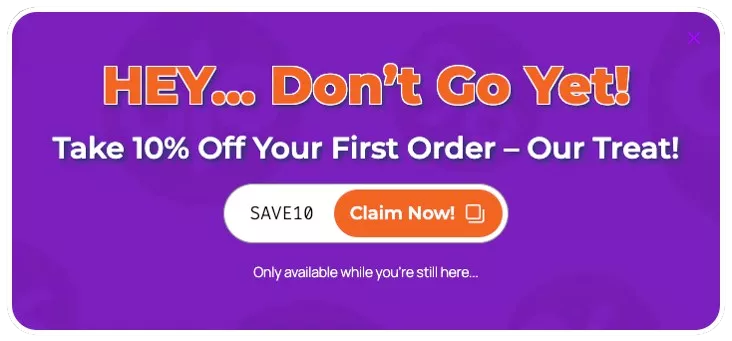
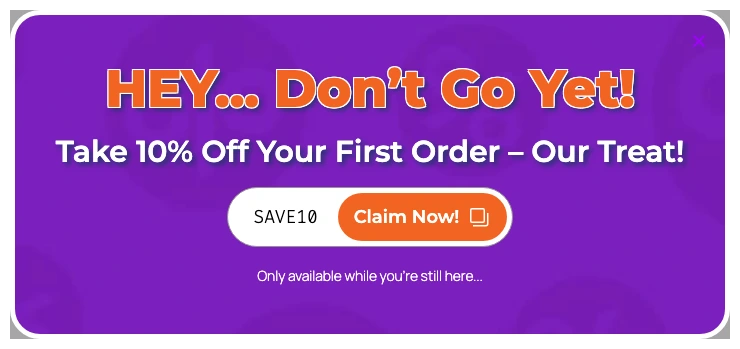
Add bundled template preview screenshots

diff --git a/includes/Admin/Templates/bars/digital_download_signup.php b/includes/Admin/Templates/bars/digital_download_signup.php
@@ -13,7 +13,7 @@ return array(
 		'category' => 'lead-capture',
 		'tags' => array( 'email', 'download' ),
 		'availability' => 'included',
-		'preview' => FOOCONVERT_ASSETS_URL . 'media/templates/preview/preview-bar-digitial-download-signup.webp',
+		'preview' => FOOCONVERT_ASSETS_URL . 'media/templates/preview/preview-bar-digital-download-signup.webp',
 	),
 	'attributes' => array(
 		'viewState' => 'open',

diff --git a/includes/Admin/Templates/bars/newsletter_subscribe.php b/includes/Admin/Templates/bars/newsletter_subscribe.php
@@ -13,7 +13,7 @@ return array(
 		'category' => 'lead-capture',
 		'tags' => array( 'newsletter', 'email' ),
 		'availability' => 'included',
-		'preview' => FOOCONVERT_ASSETS_URL . 'media/templates/fullsize/template__newsletter_subscribe.png',
+		'preview' => FOOCONVERT_ASSETS_URL . 'media/templates/preview/preview-bar-newsletter-subscribe.webp',
 	),
 	'attributes' => array(
 		'viewState' => 'open',

diff --git a/includes/Admin/Templates/bars/smart_exit_offer.php b/includes/Admin/Templates/bars/smart_exit_offer.php
@@ -13,7 +13,7 @@ return array(
         'category'     => 'lead-capture',
         'tags'         => array( 'offer', 'exit-intent' ),
         'availability' => 'included',
-        'preview'      => FOOCONVERT_ASSETS_URL . 'media/templates/fullsize/template__smart_exit_offer.png',
+        'preview'      => FOOCONVERT_ASSETS_URL . 'media/templates/preview/preview-bar-smart-exit-offer.webp',
     ),
     'attributes'  => array(
         'template'    => 'bar__smart_exit_offer',

diff --git a/includes/Admin/Templates/bars/special_offer.php b/includes/Admin/Templates/bars/special_offer.php
@@ -13,7 +13,7 @@ return array(
         'category'     => 'promotion',
         'tags'         => array( 'offer', 'countdown' ),
         'availability' => 'included',
-        'preview'      => FOOCONVERT_ASSETS_URL . 'media/templates/fullsize/template__special_offer.png',
+        'preview'      => FOOCONVERT_ASSETS_URL . 'media/templates/preview/preview-bar-special-offer.webp',
     ),
     'attributes'  => array(
         'template'    => 'bar__special_offer',

diff --git a/includes/Admin/Templates/bars/watch_the_video.php b/includes/Admin/Templates/bars/watch_the_video.php
@@ -13,7 +13,7 @@ return array(
         'category'     => 'video',
         'tags'         => array( 'video' ),
         'availability' => 'included',
-        'preview'      => FOOCONVERT_ASSETS_URL . 'media/templates/fullsize/template__video.png',
+        'preview'      => FOOCONVERT_ASSETS_URL . 'media/templates/preview/preview-bar-watch-the-video.webp',
     ),
     'attributes'  => array(
         'template'    => 'bar__watch_the_video',

diff --git a/includes/Admin/Templates/flyouts/newsletter_subscribe.php b/includes/Admin/Templates/flyouts/newsletter_subscribe.php
@@ -13,7 +13,7 @@ return array(
 		'category' => 'lead-capture',
 		'tags' => array( 'newsletter', 'email' ),
 		'availability' => 'included',
-		'preview' => FOOCONVERT_ASSETS_URL . 'media/templates/fullsize/template__newsletter_subscribe.png',
+		'preview' => FOOCONVERT_ASSETS_URL . 'media/templates/preview/preview-flyout-newsletter-subscribe.webp',
 	),
 	'attributes' => array(
 		'viewState' => 'open',

diff --git a/includes/Admin/Templates/flyouts/special_offer.php b/includes/Admin/Templates/flyouts/special_offer.php
@@ -13,7 +13,7 @@ return array(
         'category'     => 'promotion',
         'tags'         => array( 'offer', 'countdown' ),
         'availability' => 'included',
-        'preview'      => FOOCONVERT_ASSETS_URL . 'media/templates/fullsize/template__special_offer.png',
+        'preview'      => FOOCONVERT_ASSETS_URL . 'media/templates/preview/preview-flyout-special-offer.webp',
     ),
     'attributes'  => array(
         'template'    => 'flyout__special_offer',

diff --git a/includes/Admin/Templates/flyouts/watch_the_video.php b/includes/Admin/Templates/flyouts/watch_the_video.php
@@ -13,7 +13,7 @@ return array(
         'category'     => 'video',
         'tags'         => array( 'video' ),
         'availability' => 'included',
-        'preview'      => FOOCONVERT_ASSETS_URL . 'media/templates/fullsize/template__video.png',
+        'preview'      => FOOCONVERT_ASSETS_URL . 'media/templates/preview/preview-flyout-watch-the-video.webp',
     ),
     'attributes'  => array(
         'template'    => 'flyout__watch_the_video',

diff --git a/includes/Admin/Templates/overlays/digital_download_signup.php b/includes/Admin/Templates/overlays/digital_download_signup.php
@@ -13,7 +13,7 @@ return array(
 		'category' => 'lead-capture',
 		'tags' => array( 'email', 'download' ),
 		'availability' => 'included',
-		'preview' => FOOCONVERT_ASSETS_URL . 'media/templates/fullsize/template__digital_download_signup.png',
+		'preview' => FOOCONVERT_ASSETS_URL . 'media/templates/preview/preview-overlay-digital-download-signup.webp',
 	),
 	'attributes' => array(
 		'template' => 'popup__digital_download_signup',

diff --git a/includes/Admin/Templates/overlays/newsletter_subscribe.php b/includes/Admin/Templates/overlays/newsletter_subscribe.php
@@ -13,7 +13,7 @@ return array(
 		'category' => 'lead-capture',
 		'tags' => array( 'newsletter', 'email' ),
 		'availability' => 'included',
-		'preview' => FOOCONVERT_ASSETS_URL . 'media/templates/fullsize/template__newsletter_subscribe.png',
+		'preview' => FOOCONVERT_ASSETS_URL . 'media/templates/preview/preview-overlay-newsletter-subscribe.webp',
 	),
 	'attributes' => array(
 		'template' => 'popup__newsletter_subscribe',

diff --git a/includes/Admin/Templates/overlays/special_offer.php b/includes/Admin/Templates/overlays/special_offer.php
@@ -13,7 +13,7 @@ return array(
         'category'     => 'promotion',
         'tags'         => array( 'offer', 'countdown' ),
         'availability' => 'included',
-        'preview'      => FOOCONVERT_ASSETS_URL . 'media/templates/fullsize/template__special_offer.png',
+        'preview'      => FOOCONVERT_ASSETS_URL . 'media/templates/preview/preview-overlay-special-offer.webp',
     ),
     'attributes'  => array(
         'template'    => 'popup__special_offer',

diff --git a/includes/Admin/Templates/overlays/watch_the_video.php b/includes/Admin/Templates/overlays/watch_the_video.php
@@ -14,7 +14,7 @@ return array(
         'category'     => 'video',
         'tags'         => array( 'video' ),
         'availability' => 'included',
-        'preview'      => FOOCONVERT_ASSETS_URL . 'media/templates/fullsize/template__video.png',
+        'preview'      => FOOCONVERT_ASSETS_URL . 'media/templates/preview/preview-overlay-watch-the-video.webp',
     ),
     'attributes'  => array(
         'template'    => 'popup__watch_the_video',